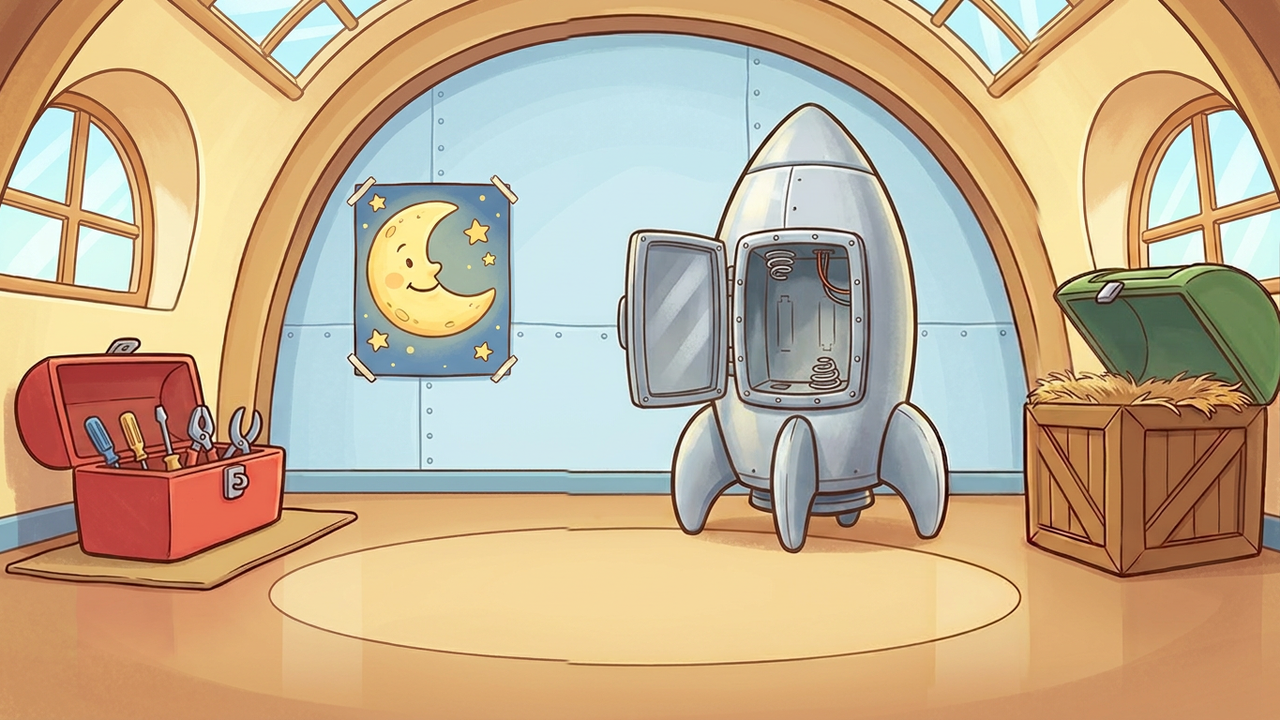
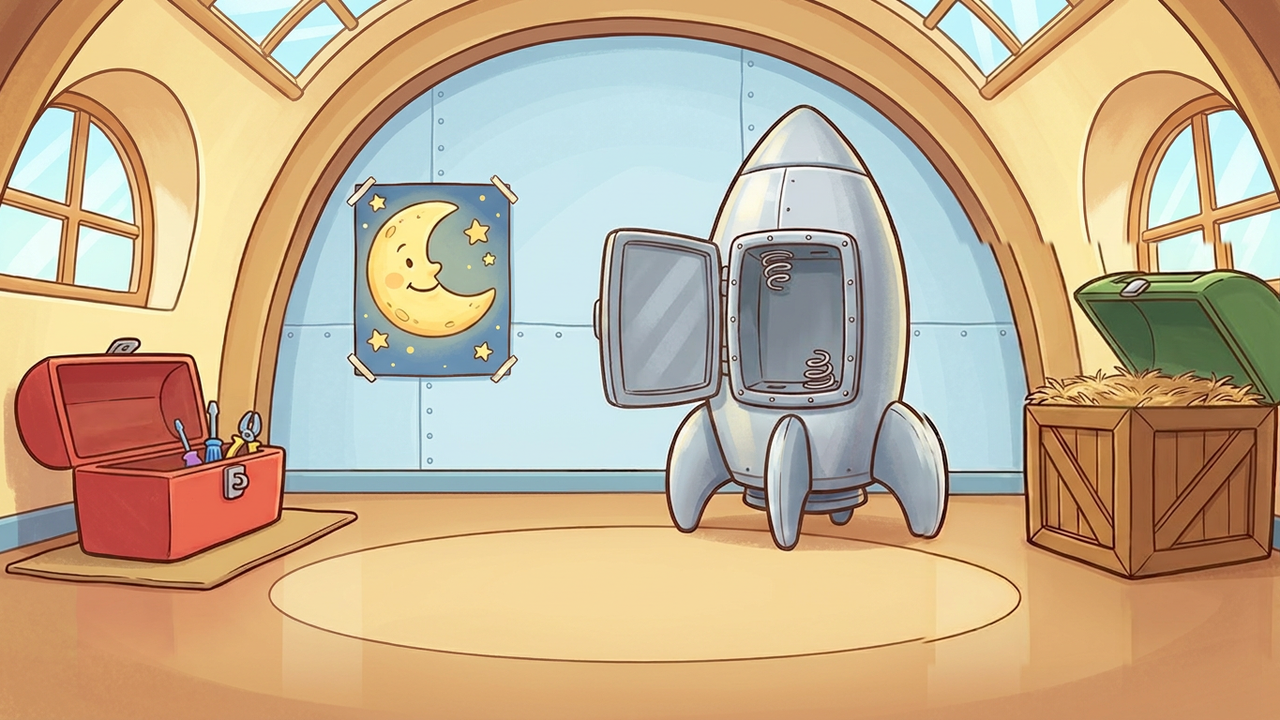
fix(escape): rocketpad wrench-gone toolbox + bunny in win porthole
Two eyeball findings from team-lead:
1. Toolbox takenScene still showed wrench-like shapes after collection
   (item-in-two-places). Rewrote taken prompt to specify only small
   colorful tools remain; used wider mask (growth 2.2) for cleaner
   NBP inpaint.
2. No bunny visible anywhere despite "Bunny Blast-Off" title. Added
   bunny peering through rocket porthole in the win/slot_after scene
   prompt (escape_specs.py).

Full chain regenerated from toolbox_taken through slot_after.
Grammar walk passes all 4 rooms; tsc + vitest green (358/358).

diff --git a/tools/gen/escape_specs.py b/tools/gen/escape_specs.py
@@ -131,7 +131,7 @@ ESCAPE_ROOMS = [
             {"id": "slot", "spot": "battery slot", "kind": "win", "needs": "battery", "shareBox": "panel",
              "sayLocked": "The battery slot is empty. We need something to power the rocket!",
              "sayFound": "The battery clicks in — three, two, one — BLAST OFF!",
-             "after": "the green battery glowing brightly inside the open side panel of the silver rocket, with warm orange light spilling from the engine nozzle at the bottom as it powers up",
+             "after": "the green battery glowing brightly inside the open side panel of the silver rocket, warm orange light spilling from the engine nozzle, a cute little brown bunny with long ears peering excitedly through the round porthole window of the rocket",
              "anim": "the battery snaps into the slot with a click, the rocket rumbles, and it blasts off with bright orange flames shooting from the bottom"},
         ],
     },

diff --git a/tools/gen_escape_grammar.py b/tools/gen_escape_grammar.py
@@ -54,7 +54,7 @@ GRAMMAR_PROMPTS: dict[str, dict[str, dict[str, str]]] = {
     "rocketpad": {
         "toolbox": {
             "reveal": None,  # toolbox already open in base scene; use base as reveal
-            "taken": "the red open toolbox with a few small tools inside — the large wrench is gone, only small screwdrivers and pliers remain",
+            "taken": "the red open toolbox sitting on the floor with only two small colorful tools remaining inside: one tiny blue-handled screwdriver and one small yellow pair of pliers — the toolbox is mostly empty with red metal bottom visible, absolutely no wrench of any kind",
         },
         "crate": {
             "reveal": "the brown wooden supply crate with its green lid popped wide open, a chunky green battery with a bright yellow lightning bolt sitting inside on top of packing straw",
